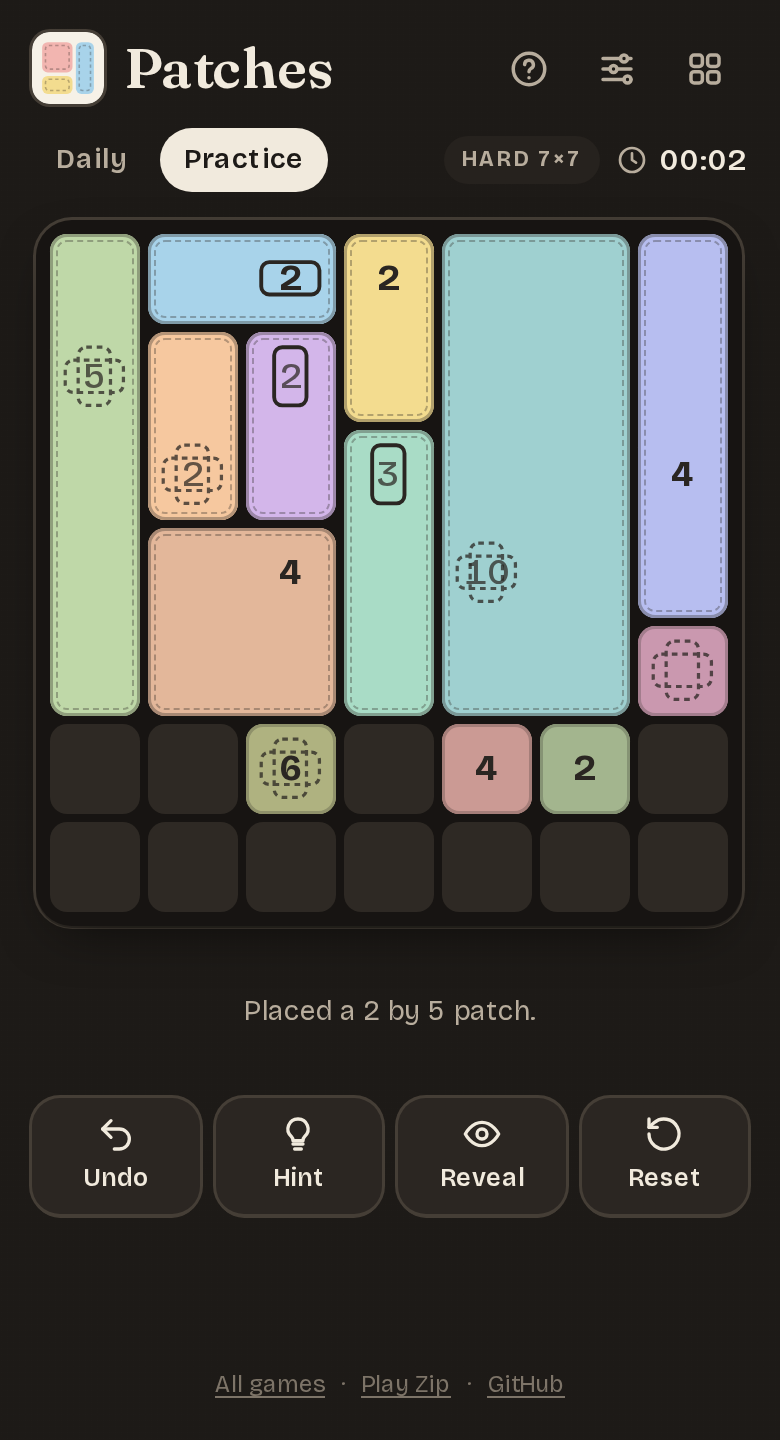
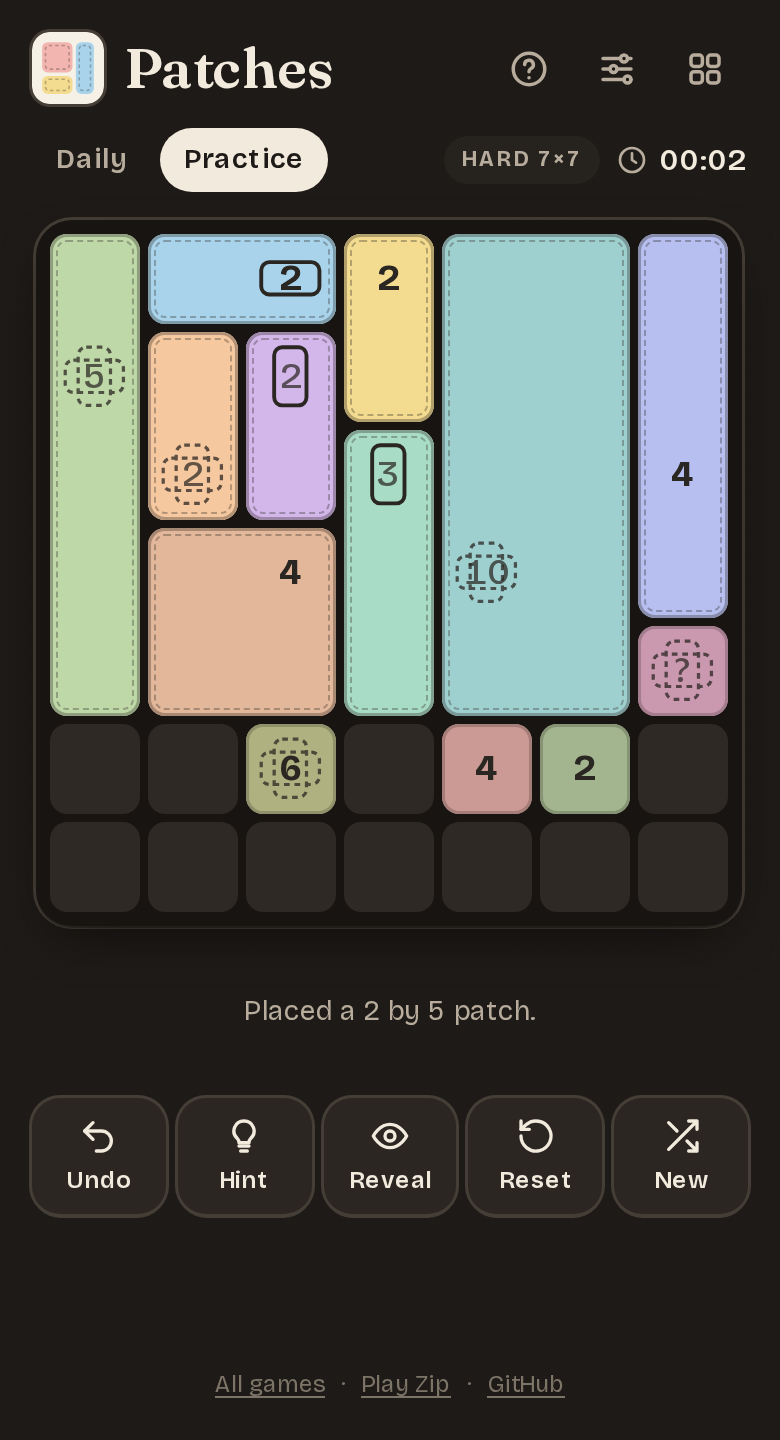
docs: describe zip generator version 2 and unfinished patches
Covers themed boards, the trap score, hidden numbers, blocked cells, symmetric solutions, the daily version upgrade, unfinished patches with clamped strokes, and the New control. The README screenshots come from the new build.

Changed region(s): [[0.0923, 0.75, 0.9231, 0.8438]]

diff --git a/scripts/make-screenshots.ts b/scripts/make-screenshots.ts
@@ -33,9 +33,12 @@ const settle = (page: Page) => page.waitForTimeout(700);
 async function shootGames(browser: Browser, colorScheme: "light" | "dark", suffix: string): Promise<void> {
   const page = await newPage(browser, colorScheme);
 
-  const zip = zipPuzzle("readme", "hard", 7);
+  const zip = zipPuzzle("readme-16", "hard", 7);
   await openZip(page, zip.url);
-  await drawCells(page, 7, zip.puzzle.solution.slice(0, 31));
+  // Stop just short of the last hidden number, so the shot shows a covered "?" and one that is still unknown.
+  const hidden = zip.puzzle.checkpoints.filter((checkpoint) => checkpoint.hidden);
+  const lastHidden = hidden[hidden.length - 1];
+  await drawCells(page, 7, zip.puzzle.solution.slice(0, zip.puzzle.solution.indexOf(lastHidden.row * 7 + lastHidden.column)));
   await settle(page);
   await page.screenshot({ path: resolve(OUT, `zip${suffix}.png`) });
 

diff --git a/docs/zip/ZIP.md b/docs/zip/ZIP.md
@@ -4,18 +4,30 @@ Zip is a path puzzle inspired by LinkedIn's Zip. This document covers its rules,
 
 ## Rules
 
-The rewrite kept the rules of the earlier Zip in this repository unchanged. They now live in one file, `engine/rules.ts`.
+The rules live in one file, `engine/rules.ts`.
 
 1. The path starts on 1.
 2. Each step goes to a side neighbour. Diagonals do not connect.
-3. The path never crosses a wall.
+3. The path never crosses a wall and never enters a blocked cell.
 4. The path never visits a cell twice.
 5. Numbered cells are passed in order: 1, 2, 3 and so on.
-6. The puzzle is solved when the path covers every cell and ends on the last number.
+6. The puzzle is solved when the path covers every cell that is not blocked and ends on the last number.
 
-`checkStep(topology, path, cell)` returns null or the rule that refuses the step, with a sentence for the UI: `start-at-one`, `not-adjacent`, `wall`, `revisit`, `wrong-number`, `path-ended`. `validatePath` walks a whole path through `checkStep` again and is the only completion check. `stepTo` calls it when the path reaches full length, so a full board that ends on the wrong cell is not accepted.
+`checkStep(topology, path, cell)` returns null or the rule that refuses the step, with a sentence for the UI: `start-at-one`, `blocked`, `not-adjacent`, `wall`, `revisit`, `wrong-number`, `path-ended`. `validatePath` walks a whole path through `checkStep` again and is the only completion check. `stepTo` calls it when the path reaches full length, so a full board that ends on the wrong cell is not accepted.
 
-Reaching the last number early is allowed, as it was before: the path then cannot grow, the uncovered cells pulse, and the status line says how many are left.
+Reaching the last number early is allowed: the path then cannot grow, the uncovered cells pulse, and the status line says how many are left.
+
+### Hidden numbers
+
+On hard and expert boards some numbers show `?`. The player sees that the cell is numbered but not which number it is. 1 and the last number are never hidden, and at least one number in between stays visible.
+
+Rule 5 is therefore checked by position. A visible number n must be the nth numbered cell on the path. A hidden number fits any position: the player cannot know its value, and refusing the step would give it away. The generator only hides a number while the board keeps exactly one solution under this looser rule, so the rules and the solver share the same definition (`nextNumber` counts numbered cells on the path, it does not read them).
+
+Once the path covers a `?`, the cell shows the place it takes on that path. That is its real number only if the path is right, so nothing leaks. The pulsing ring that marks the next number never appears on a hidden one.
+
+### Blocked cells
+
+A blocked cell is a hole in the board: a dashed outline with a cross. It has no neighbours, the path cannot enter it, and it does not have to be covered. `Topology.playableCount` is the number of cells a solution covers.
 
 ## Data model
 
@@ -23,14 +35,15 @@ Reaching the last number early is allowed, as it was before: the path then canno
 type ZipPuzzle = {
   id: string; seed: string; version: number;
   width: number; height: number; difficulty: Difficulty;
-  checkpoints: { number: number; row: number; column: number }[];
+  checkpoints: { number: number; row: number; column: number; hidden?: boolean }[];
   walls: { a: number; b: number }[];   // cell indices, a < b, side neighbours
+  blocked: number[];                   // cell indices the path cannot enter
   solution: number[];                  // row-major cell indices, in path order
-  metadata: ZipMetadata;
+  metadata: ZipMetadata;               // theme, trapScore, hiddenCount, blockedCount, ...
 };
 ```
 
-`buildTopology(shape)` precomputes what the rules keep asking: passable neighbours per cell with walls already removed, the number on each cell, and the start and end cells.
+`buildTopology(shape)` precomputes what the rules keep asking: passable neighbours per cell with walls and blocked cells already removed, the number on each cell and whether it is hidden, and the start and end cells.
 
 ## Solver
 
@@ -42,32 +55,70 @@ type ZipPuzzle = {
 
 Neighbours are tried fewest-exits-first (Warnsdorff).
 
+The solver keeps a counter of numbered cells on the path, the same way the rules do. A visible number must match the counter, a hidden one always fits. Blocked cells never enter the search, and a solution is `playableCount` cells long.
+
 The search budget is a node count. The earlier solver used a time limit (`Date.now()`), which expires sooner on a slow phone, so the same seed could end up with different walls on different devices. That is not acceptable for a daily puzzle that must be the same for everyone. `unique` is true only with exactly one solution and a search that ran to the end.
 
 ## Generator
 
-`generateZipFromSpec(spec)`, per attempt, each with its own PRNG stream:
+The generator is versioned (`engine/generator/`). `v1.ts` is frozen: old seeds and past dailies keep their boards. `v2.ts` is the current one. `docs/SEEDS.md` explains how versions and dailies relate.
 
-1. **Path.** A random Hamiltonian path by backbiting: start from a plain snake, pick an end of the path and a grid neighbour of it that is not its path neighbour, and reverse the stretch between them. The result is again a Hamiltonian path. Forty moves per cell mix it thoroughly. This replaced the earlier Warnsdorff walk, which could fail and needed a snake fallback, and which favoured wall-hugging spirals. Measured: 0.54 turns per cell at every tier.
-2. **Numbers.** 1 on the first cell, the last number on the last cell, the rest spread along the path with jitter. The count comes from the tier's density range, with a minimum of 3.
-3. **Walls for uniqueness.** The solver is asked for two solutions. If it finds an impostor, one edge that the impostor uses and the real path does not becomes a wall, so every wall removes at least one wrong answer. This repeats until the solution is unique. The earlier generator added random walls until the puzzle happened to become unique.
-4. **Pruning.** Each wall is tried without. If the puzzle stays unique, the wall goes.
-5. **Acceptance.** If uniqueness cannot be proven within 40,000 nodes, or the board needs more walls than the tier allows, the attempt is dropped and the next one runs, up to 60.
+### Version 1
+
+A random Hamiltonian path by backbiting (forty moves per cell), numbers spread evenly along it, then walls: the solver is asked for two solutions, and one edge that the impostor uses and the real path does not becomes a wall, until the solution is unique. A last pass drops walls that turn out not to be needed.
+
+It worked, but every board looked the same. The path was uniform noise, the walls were isolated segments with no relation to each other, the numbers were evenly spaced, and the only thing a tier changed was how many numbers there were. Expert on 8x8 was easy.
+
+### Version 2
+
+Each attempt has its own PRNG stream and goes through these steps.
+
+1. **Theme.** The seed picks a figure, with odds per tier (`figures.ts`):
+   - wall figures: `cross`, `frame`, `corners`, `corridors`, `slash`, `face`, `pinwheel`, `mirror`,
+   - blocked cells: `core` (the middle of the board), `pillars` (single cells placed symmetrically), `islands` (dominoes with their mirror image or half turn),
+   - or `none`, where a drawn path carries the theme.
+
+   Every figure is turned a random way. Blocked cells must leave the two colours of the checkerboard level, give or take one, or no path exists. A domino always takes one cell of each colour, and single cells are picked by colour.
+2. **Path.** Three ways (`paths.ts`):
+   - Around a figure: `findHamiltonianPath` searches the walled board depth first, fewest exits first, which hugs the figure. Six backbite moves per cell hide the search order and keep the look.
+   - On an open board: a `spiral`, a `snake` or a generalised Hilbert curve, disturbed by a few backbite moves (each move changes one edge of the drawing), or `random`, which is noise as in version 1.
+   - Symmetric: on a symmetric board the solution itself can be symmetric, with odds per tier. See below.
+3. **Numbers.** 1 and the last number sit on the ends of the path. The stretches between numbers vary in length by the tier's `gapVariance`, so a board is not n equal chores.
+4. **Uniqueness.** The solver is asked for two solutions. With `numbers-first`, the generator adds a number on a cell that the impostor visits in a different stretch than the real path does, which rules the impostor out. A number says nothing about the next turn, so it keeps a board hard where a wall would give a turn away, and it halves the wall count. When no such cell exists or the number budget is spent, an edge that only the impostor uses becomes a wall, together with its twin under the theme's symmetry. A last pass drops wall groups that are not needed. Figure walls are never touched.
+5. **Numbers for walls.** With the tier's `wallsFirstOdds` a board starts with 70% of the usual numbers and is made unique with walls alone. One tier therefore offers both kinds of board: many numbers and few walls, or few numbers and many walls.
+6. **Candidates.** Steps 1 to 5 run until the tier has its number of candidates. The generator keeps the one whose trap score is closest to the tier's target.
+7. **Hidden numbers.** On the chosen board, numbers between 1 and the last one are hidden one at a time, in random order, up to the tier's share. Each one stays hidden only if the solver still finds exactly one solution. This runs on the chosen board only, because every trial is a full uniqueness proof.
+
+If uniqueness cannot be proven within 40,000 nodes, or the board needs more walls than the tier allows, the attempt is dropped. Up to 40 attempts run.
+
+### Symmetric solutions
+
+`symmetricPath` builds a Hamiltonian path whose second half is the image of the first, walked backwards. Such a path has a middle. Under a mirror the two middle cells face each other across the axis, which needs an even size. Under a half turn the middle is the centre cell, which needs an odd size.
+
+Every other cell comes in a pair with its image, and a symmetric path visits one cell of each pair before the middle and the other one after it. So the first half is a Hamiltonian path of the quotient graph, whose nodes are the pairs, ending on a pair next to the middle. The generator finds that path, mixes it by backbiting with the end pinned, and lifts it back to cells. At each step either cell of the next pair may be the one that continues the path, which lets the solution cross the axis as often as it likes.
+
+With little mixing, the half keeps the wall-hugging look of the search. On an odd board that reads as a spiral in and the same spiral out. Walls and blocked cells must map onto themselves, so a symmetric solution also works on symmetric figures such as `cross`, `corners` or `core`. Extra walls then follow the solution's symmetry.
+
+### Difficulty
+
+`measureTraps` (`generator/difficulty.ts`) walks the solution. At every cell it tries each legal wrong turn and asks the solver to refute it, with a cap of 300 nodes. A wrong turn that dies within 3 nodes is obvious and scores nothing. Up to 40 nodes it is a shallow trap (1 point), beyond that a deep trap (3 points), and one that survives the cap scores 5. The sum is the trap score: how many times the board invites a mistake that only shows later.
+
+The score is what made the tiers real. Measured on 8x8 boards, corridors and the pinwheel force almost the whole path (median 1 and 6), while a lightly disturbed snake or spiral on an open board is the hardest kind (median 89 and 52, against 23 for the noise of version 1). So the easy tier favours the first group, expert the second, and every tier aims for a target score.
 
 `validateZipPuzzle` audits a finished puzzle independently with a ten times larger budget: numbers are 1..n, the solver finds exactly one solution, and it is the stored one.
 
 ## Tiers
 
-| Tier | Sizes | Numbered cells, share of all cells | Max walls, share of all cells |
-|---|---|---|---|
-| easy | 5x5, 6x6 | 16% to 22% | 30% |
-| medium | 6x6, 7x7 | 12% to 16% | 30% |
-| hard | 7x7, 8x8 | 9% to 12% | 32% |
-| expert | 8x8 | 7% to 9.5% | 34% |
+`engine/config.ts`, version 2.
 
-Numbers are what guide the player, so harder tiers get fewer of them on bigger boards. With fewer numbers the generator needs more walls to pin the solution down: 3.7 on average for easy, 12.6 for expert. Practice mode can force any size from 5x5 to 8x8 on any tier.
+| Tier | Sizes | Numbers, share of cells | Hidden numbers | Candidates | Target trap score |
+|---|---|---|---|---|---|
+| easy | 5x5, 6x6 | 16% to 22% | none | 2 | 0 |
+| medium | 6x6, 7x7 | 12% to 16% | none | 3 | 14 |
+| hard | 7x7, 8x8 | 8.5% to 11.5% | 25% to 40% | 3 | 28, before hiding |
+| expert | 7x7, 8x8 | 6.5% to 9% | 40% to 60% | 5 | the highest |
 
-Zip has no numeric difficulty score like Patches. The tier is defined by its inputs (size and number density), not by a measurement of the result.
+Every tier gives a symmetric solution a 30% chance, and trades numbers for walls on 25% to 30% of its boards. Practice mode can force any size from 5x5 to 8x8 on any tier.
 
 ## Game state
 
@@ -86,7 +137,7 @@ A drag is many steps but one move, so undo works gesture by gesture. "Backtracks
 
 ## Hints
 
-`getZipHint` compares the path with the unique solution. If the path left it, the hint is `wrong-turn`: the wrong stretch is hatched for a moment and then cut off, with a message such as "The path goes wrong right after 2". Otherwise it is `extend`: the game draws the path to the next number, cell by cell.
+`getZipHint` compares the path with the unique solution. If the path left it, the hint is `wrong-turn`: the wrong stretch is hatched for a moment and then cut off, with a message such as "The path goes wrong right after 2". Otherwise it is `extend`: the game draws the path to the next numbered cell, hidden or not, cell by cell.
 
 ## Interaction
 
@@ -96,6 +147,8 @@ A drag is many steps but one move, so undo works gesture by gesture. "Backtracks
 - A refused step shakes the board, hatches the cell, plays a sound and names the rule. A finger resting on a forbidden cell complains once, not on every pointer event.
 - A tap on a cell the path cannot reach (not in line with the head, not a diagonal neighbour) is refused the same way. The same cell crossed during a drag stays silent, or a fast diagonal swipe would buzz all the way.
 - The next number wears a pulsing ring, and the head of the path has a marker that shows where to press.
+- A solved board keeps only its answer. The walls and the numbers fade out and the line gets thicker, so what stays is the drawing the path makes. A board that loads already solved appears in that state.
+- Practice boards have a fifth control, New, that loads another board with a fresh seed and restarts the clock.
 - Keyboard: arrows move the head (the first key puts the path on 1), Backspace takes a step back, Z undoes, H asks for a hint.
 - Sound: each step plays a short tone whose pitch rises an octave as the path fills the board, numbers chime, stepping back plays a low note, and a refused step buzzes.
 
@@ -103,21 +156,23 @@ The path is drawn in SVG over the tiles. Its colour runs continuously from one f
 
 ## Benchmark
 
-`npm run zip:benchmark`, 300 boards per tier on a desktop machine:
+`npm run zip:benchmark`, 300 boards per tier on a desktop machine, generator version 2:
 
-| Tier | Boards | Generation mean / p95 / max (ms) | Mean attempts | Numbers | Walls | Invalid |
+| Tier | Generation p50 / p95 / max (ms) | Numbers (hidden) | Walls | Boards with blocked cells | Symmetric solutions | Trap score p10 / p50 / p90 |
 |---|---|---|---|---|---|---|
-| easy | 5x5, 6x6 | 1.6 / 3.7 / 19 | 1.00 | 5.8 | 3.7 | 0 |
-| medium | 6x6, 7x7 | 10.7 / 43 / 83 | 1.02 | 6.0 | 6.4 | 0 |
-| hard | 7x7, 8x8 | 72.7 / 254 / 548 | 1.52 | 5.8 | 10.2 | 0 |
-| expert | 8x8 | 125 / 289 / 431 | 2.00 | 5.3 | 12.6 | 0 |
+| easy | 0.9 / 2.7 / 13 | 6.0 (0) | 5.1 | 50 | 54 | 0 / 1 / 4 |
+| medium | 6.2 / 46 / 115 | 7.6 (0) | 6.3 | 60 | 61 | 6 / 12 / 17 |
+| hard | 61 / 258 / 400 | 8.9 (2.3) | 8.2 | 78 | 64 | 18 / 30 / 48 |
+| expert | 178 / 678 / 1103 | 9.2 (3.3) | 6.3 | 49 | 68 | 27 / 49 / 74 |
+
+No board was invalid. For comparison, version 1 expert boards average a trap score of 34 on 8x8, and version 2 averages 52 there.
 
 `npm run zip:validate` audits 925 boards, 365 consecutive dailies among them, with 0 problems.
 
 ## Known weaknesses
 
 - **Board size stops at 8x8.** Proving uniqueness is exponential. 9x9 took 1 to 5 seconds per board and 10x10 failed a third of the time, so they were left out instead of shipped slow. A Web Worker and a stronger solver would lift this.
-- **Generation can take half a second** on a desktop for an 8x8 board, and several times that on a slow phone. It runs behind a loading board.
-- **Repeats on 5x5.** 2 of 300 easy boards shared a path with another board. A 5x5 grid has few Hamiltonian paths. Numbers and walls still differ.
-- **No difficulty score.** Two boards of one tier can feel different, because nothing measures how hard the result is to solve.
-- **Old links changed.** `/hard/42` still works and opens a hard board for seed 42, but not the board the old generator produced.
+- **Expert generation can take a second** on a desktop for an 8x8 board, and several times that on a slow phone. It builds five candidates and proves each hidden number. It runs behind a loading board.
+- **Repeated paths on small easy boards.** 24 of 300 easy boards shared their path with another board. Corridors and the pinwheel leave a 5x5 grid very few paths. Numbers and walls still differ.
+- **The trap score is a proxy.** It measures how long a wrong turn survives a solver, not how a person reasons. A symmetric solution, once noticed, is easier than its score says.
+- **Old links changed.** `/hard/42` still works and opens a hard board for seed 42, but not the board the pre-platform generator produced.

diff --git a/docs/patches/PUZZLE_ENGINE.md b/docs/patches/PUZZLE_ENGINE.md
@@ -74,8 +74,10 @@ Every function returns a new state and never mutates its input.
 | Function | Behaviour |
 |---|---|
 | `createGame(puzzleId)` | empty board |
-| `previewRect(puzzle, state, rect)` | `neutral` (no clue yet), `valid` or `invalid`, with errors |
-| `placeRegion(puzzle, state, rect)` | places if legal, otherwise returns the same state plus errors. A legal patch is placed even if it is not the one from the solution. If the clue already has a patch, the new one replaces it as a single `replace` action and counts one redraw. Drawing the identical patch again does nothing. Runs `validateState` to decide `solved` |
+| `previewRect(puzzle, state, rect)` | `valid`, `pending` or `invalid`, with errors |
+| `mergeWithOwnPatch(puzzle, state, rect)` | the rectangle a stroke really stands for: its union with the patch of the clue it contains, or with the single patch it touches. This is what lets a patch be drawn in several strokes |
+| `placeRegion(puzzle, state, rect)` | places a valid or pending rectangle, otherwise returns the same state plus errors. A legal patch is placed even if it is not the one from the solution. If the clue already has a patch, the merged one replaces it as a single `replace` action, which is not a redraw. Drawing the identical patch again does nothing. Runs `validateState` to decide `solved`, so a pending patch can never finish a board |
+| `pendingRegionIds(puzzle, state)` | the patches on the board that are not legal yet |
 | `removeRegionAt(state, cell)` | tap-to-remove. Counts one redraw |
 | `undo(state)` | pops the last action and applies its inverse. Undoing a placement or a replacement counts one redraw, undoing a removal does not. One undo reverts a replacement back to the earlier patch |
 | `resetGame(state)` | clears patches and history. Keeps puzzle id, moves, redraws and hints |
@@ -91,6 +93,14 @@ Reset keeps the counters and leaves the clock running. The original's behaviour 
 
 `engine/board/drag.ts` holds the drawing rule as pure functions, shared by the pointer and the keyboard: `startExtent(clueCell)`, `extendExtent(extent, cell)` and `extentRect(extent)`. The extent is the bounding rectangle of the clue cell and every visited cell. It only grows, so a clue can end up anywhere inside its patch, not just in a corner, and a fast pointer that skips cells gives the same result as a slow one.
 
+`extendExtentWithin(extent, cell, isFree)` is the version the board uses. It grows one row or column at a time, one side after the other, and only while `isFree` accepts the result. The board passes `isTakenByOthers`, so the extent stops at other clues and other patches while the pointer keeps moving.
+
+## Unfinished patches
+
+`validation/extendable.ts` decides whether a rectangle that is not legal yet is worth keeping. `canGrowIntoLegal(puzzle, others, clue, rect)` enumerates the rectangles that contain it and asks whether any of them satisfies the clue, stays on the board, holds no other clue and overlaps no other patch. It returns false at once when the rectangle already exceeds the clue's number. With a result of true the rectangle is `pending`, otherwise `invalid`.
+
+A saved board may contain pending patches. `fromSnapshot` accepts a stored patch only if it is a filled rectangle, holds exactly the clue it claims, does not repeat a clue, and is not `invalid` against the patches restored before it. A forged or outdated snapshot is dropped as a whole.
+
 ## Clock
 
 The clock is shared by every game and lives in `src/shared/engine/clock.ts`. See `docs/ARCHITECTURE.md`.
@@ -101,7 +111,7 @@ The clock is shared by every game and lives in `src/shared/engine/clock.ts`. See
 
 The UI acts on a hint: it removes a wrong patch, or places the proven one.
 
-- `wrong-region`: a placed patch that no solution contains. Checked first, because a deduction built on a wrong patch would mislead. Each patch is tested alone against the solver, then the board is rebuilt in play order to find the first patch that makes it unsolvable.
+- `wrong-region`: a placed patch that no solution contains, or an unfinished patch that reaches cells outside its solution rectangle. Unfinished patches that are still inside it are left alone and are not handed to the solver as fixed. Checked first, because a deduction built on a wrong patch would mislead. Each patch is tested alone against the solver, then the board is rebuilt in play order to find the first patch that makes it unsolvable.
 - `place-region`: the next patch the logic solver can prove, with its rectangle, the technique (`clue-single`, `cell-single` or `search`), an optional focus cell and a one-sentence reason.
 - `complete`.
 

diff --git a/README.md b/README.md
@@ -23,7 +23,7 @@ Every game gets one new board per day, the same for every player, plus unlimited
   </tr>
   <tr>
     <td><img alt="Hub with both games, today's status, the streak and the countdown to the next boards" src="./.github/screenshots/hub.png" /></td>
-    <td><img alt="Zip board with the path drawn through the first three numbers" src="./.github/screenshots/zip.png" /></td>
+    <td><img alt="Zip board with blocked cells, a hidden number and the path drawn through the first four numbers" src="./.github/screenshots/zip.png" /></td>
     <td><img alt="Patches board with most of its patches placed" src="./.github/screenshots/patches.png" /></td>
   </tr>
 </table>
@@ -54,17 +54,19 @@ Old Zip links such as `/hard/42` redirect to the new practice route. The shortcu
 
 **Zip.** Press 1 and drag. The path moves to side neighbours, cannot cross itself or a wall, and must reach the numbers in order. The board is solved when the path covers every cell and ends on the last number. Drag backwards to rewind, or tap a cell on the path to cut it there. Boards go from 5x5 to 8x8.
 
-**Patches.** Press a clue and drag outward to draw its patch. A clue can give a cell count, a shape (square, tall, wide or any), both, or nothing. Patches cannot overlap and every cell must be covered. Tap a patch to remove it. Boards go from 5x5 to 10x10.
+Boards are themed by their seed. Walls form figures (a cross, a frame, a face, a pinwheel), some cells are blocked and the path goes around them, and the solution is often a drawing of its own: a spiral, a meander, or a path whose second half mirrors the first. Hard and expert boards hide some numbers behind a `?`. When a board is solved, walls and numbers fade out and only the path remains.
+
+**Patches.** Press a clue and drag outward to draw its patch. A clue can give a cell count, a shape (square, tall, wide or any), both, or nothing (it then shows `?`). Patches cannot overlap and every cell must be covered. A patch can be drawn in several strokes: a partial one stays on the board as unfinished, and another drag from the clue or from the patch adds to it. Tap a patch to remove it. Boards go from 5x5 to 10x10.
 
 Both games share the same controls and rules around the board:
 
-- **Undo**, **Hint**, **Reveal** and **Reset**. A hint acts: it removes a mistake if there is one, otherwise it plays the next forced move and says why. Reveal plays the whole solution piece by piece, and that puzzle then earns no streak and no best time.
+- **Undo**, **Hint**, **Reveal** and **Reset**, plus **New** in practice mode, which loads another board and restarts the clock. A hint acts: it removes a mistake if there is one, otherwise it plays the next forced move and says why. Reveal plays the whole solution piece by piece, and that puzzle then earns no streak and no best time.
 - **The clock** starts the first time you see the board and only stops when the puzzle ends. Closing the tab does not pause it.
 - **Daily puzzles** change at midnight Pacific Time and get harder from Monday to Sunday. Finishing one extends that game's streak.
 - **Sound and vibration** are on by default and can be turned off in the settings, which apply to every game.
 - Everything works with the keyboard, and the layout follows the system's light or dark theme and its reduced motion setting.
 
-Every generated puzzle has exactly one solution, proven by a solver before the board is shown, and Patches boards can always be solved by deduction alone.
+Every generated puzzle has exactly one solution, proven by a solver before the board is shown, and Patches boards can always be solved by deduction alone. Zip measures how hard a board is by counting the wrong turns that only fail many cells later, and each difficulty aims for its own score.
 
 ## Project structure
 

diff --git a/docs/patches/PATCHES_REFERENCE.md b/docs/patches/PATCHES_REFERENCE.md
@@ -85,11 +85,15 @@ Choices made here, revised after play-testing feedback from the project owner:
 
 - A drag starts on a clue cell, as Coolmath's "click on a numbered cell and drag" describes. A press on an empty cell never draws. If the player drags from one anyway, a message says where to start.
 - The drag paints. The patch is the bounding rectangle of the clue and every cell the pointer has visited, so it only grows while the drag lasts. The first version used a plain rectangle from the press cell to the current cell. With that, a clue could only sit in a corner of its patch: dragging up from a clue in the middle row and then back down dropped the rows above, and the player had to start the drag from an outside corner instead.
-- The preview is valid when the rectangle holds exactly one clue and satisfies it, and invalid otherwise (two or more clues, wrong area, wrong shape, or overlap with another clue's patch).
-- Releasing an invalid rectangle places nothing. The board shakes briefly and a text message names the reason.
+- The preview has three states. It is valid when the rectangle holds exactly one clue and satisfies it. It is pending when it is not legal yet but can still grow into a legal patch: 4 cells of a 5, or a 2x2 start for a tall clue. It is invalid when it can never become legal: it holds another clue, overlaps another patch, exceeds the clue's number, or has no room left for the clue's shape.
+- The label on the preview counts cells, for example `4/5`, or just `4` when the clue has no number. It used to show the dimensions (`2x2`), which says little about how far the patch is from its number.
+- Releasing a pending rectangle keeps it on the board as an unfinished patch: lighter, with a dashed outline and its count. The player finishes it with another stroke, from the clue or from any cell of the patch. The strokes add up: the patch becomes the smallest rectangle around all of them. The shape of a clue is only judged once the patch has its full size, because a tall patch can pass through a square on the way. A board with an unfinished patch is never complete.
+- The preview never runs over another clue or another patch. It stops at their edge while the pointer keeps moving, so a long swipe cannot turn a good stroke into a refused one.
+- Releasing an invalid rectangle places nothing. The board shakes briefly and a text message names the reason. If the stroke started on an existing patch, that patch stays as it was.
 - A legal but wrong patch is placed and stays. The game does not comment on it, so the player can follow a wrong path and back out by tapping patches. Only a hint points at a patch that cannot be part of the solution.
 - Overlap with another clue's patch is invalid. The player removes that patch first.
-- Drawing again from a clue that already has a patch replaces it in one undoable step and counts as a redraw. The old patch fades while the new one is drawn.
+- Drawing again from a clue or a patch grows that patch in one undoable step. It does not count as a redraw. To make a patch smaller, the player taps it off and draws again.
+- A clue without a number shows `?`, with or without a shape icon, until a patch gives it a size. Harder tiers have more of them.
 - A drag is cancelled by releasing outside the board or pressing Escape. Since a drag cannot shrink, this is how the player backs out of an overshoot.
 
 ## Controls

diff --git a/docs/ARCHITECTURE.md b/docs/ARCHITECTURE.md
@@ -43,7 +43,7 @@ Header, controls, dialogs, results, streaks, best times, sharing, settings, the 
 
 ## The game frame
 
-`shared/ui/game-frame.tsx` is everything around a board: header, status line, the four controls (Undo, Hint, Reveal, Reset), the tutorial slot, settings, the reveal confirmation, the result dialog, the Z and H shortcuts and the moment the clock starts. A game plugs in through one interface:
+`shared/ui/game-frame.tsx` is everything around a board: header, status line, the controls (Undo, Hint, Reveal, Reset, and New in practice mode), the tutorial slot, settings, the reveal confirmation, the result dialog, the Z and H shortcuts and the moment the clock starts. A game plugs in through one interface:
 
 ```ts
 type GameSession = {
@@ -55,7 +55,9 @@ type GameSession = {
 };
 ```
 
-`usePatchesGame` and `useZipGame` both return it. When `summary` appears, the frame calls `buildResult`, which records the daily result, the streak and the best time (or only reads them, when `endedNow` is false) and opens the result dialog. `GameView` components are mounted with `key={puzzle.id}`, so a new puzzle always starts from a clean hook.
+The frame takes an optional `onNext`. Practice pages pass it, and the frame then shows New as a fifth control and "New game" next to "View result" on a solved board. It loads another board with a fresh seed, and since the view is keyed by puzzle id, the clock starts over with it. Daily pages do not pass it.
+
+`usePatchesGame` and `useZipGame` both return the session. When `summary` appears, the frame calls `buildResult`, which records the daily result, the streak and the best time (or only reads them, when `endedNow` is false) and opens the result dialog. `GameView` components are mounted with `key={puzzle.id}`, so a new puzzle always starts from a clean hook.
 
 ## Platform rules shared by every game
 

diff --git a/docs/SEEDS.md b/docs/SEEDS.md
@@ -46,13 +46,28 @@ Each game builds its codec with `createSeedCodec({ prefix, currentVersion, suppo
 
 ## Versioning
 
-Each game has its own generator version (`GENERATOR_VERSION`, `ZIP_GENERATOR_VERSION`), both currently 1. When a generator change would alter the board a seed produces:
+Each game has its own generator version: `GENERATOR_VERSION` for Patches, currently 1, and `ZIP_GENERATOR_VERSION`, currently 2. When a generator change would alter the board a seed produces:
 
 1. Keep the old code path.
 2. Bump the version.
 3. Add the new number to the codec's `supportedVersions`.
 
 Old links and old dailies then keep their boards. A seed with an unsupported version throws, and the play page shows "This seed cannot be played".
+
+Zip went through this once. Version 2 builds themed boards (see `docs/zip/ZIP.md`). Version 1 moved to `engine/generator/v1.ts` untouched, with its own copy of the tier settings, and `supportedVersions` is `[1, 2]`. `ZIP:lucky:1:hard:8` still opens the board it always did, and new practice links carry version 2. A test pins one known board per version.
+
+Daily puzzles need one more step, because their version is part of the seed and a past day must never change. `DailyConfig` takes a list of upgrades:
+
+```ts
+export const ZIP_DAILY_CONFIG = {
+  epoch: "2025-03-18",
+  schedule: DEFAULT_WEEKLY_SCHEDULE,
+  generatorVersion: 1,
+  upgrades: [{ from: "2026-09-22", version: 2 }],
+};
+```
+
+`dailyGeneratorVersion(config, date)` returns the version of the last upgrade on or before the date. Days before 2026-09-22 keep version 1, so results and streaks already recorded still match their boards.
 
 ## Share URLs
 
